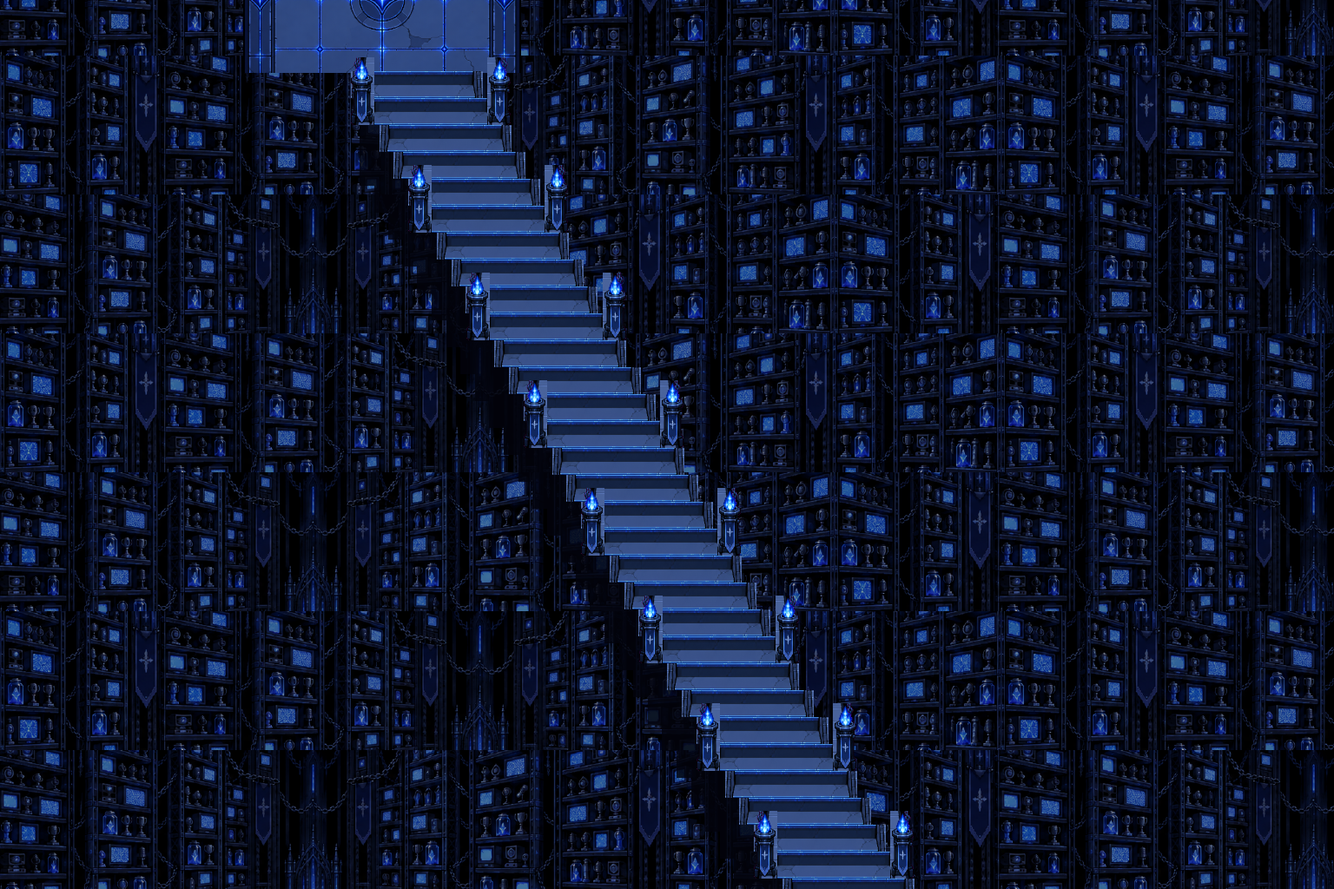
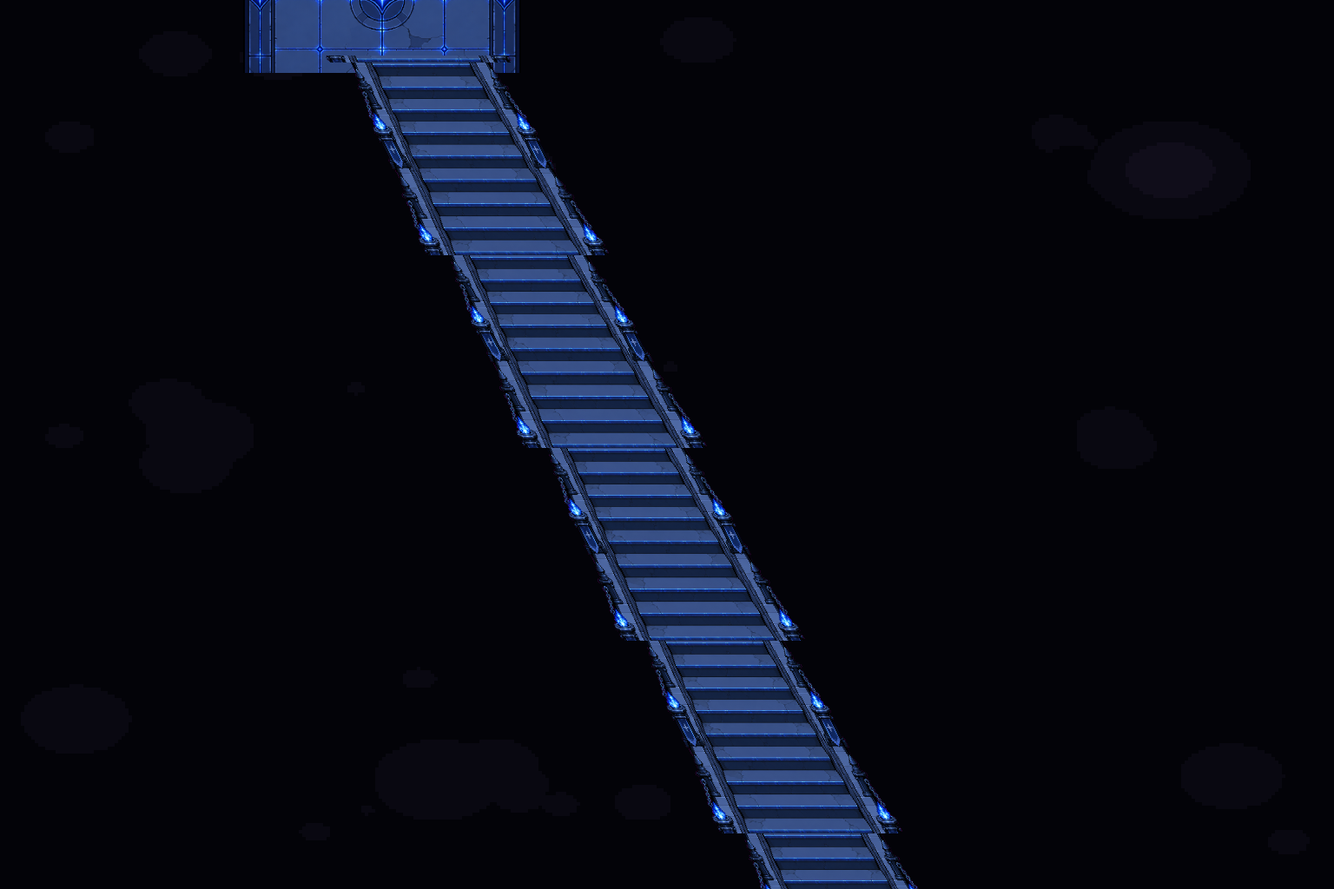
fix(castle): arena wave framing and longer rise, generated tower wall, allies pre-placed; stairs as continuous slanted flights on black smoke, more fist smashes
Design: docs/STATE.md BUILD336

diff --git a/src/scenes/castle-arena.js b/src/scenes/castle-arena.js
@@ -45,6 +45,7 @@ export class CastleArena {
     this.level = 0; this.time = 0; this.spawnAcc = 0;
     this.motes = []; this.puffs = []; this.eruption = null; this.chargeState = null;
     this.orb = null; this.rising = null; this.lasers = []; this.swords = []; this.fountain = null; this.dust = [];
+    this.sparks = [];
     this.fog = { level: 0, target: 0, speed: 1, clear: null }; this.tracking = null; this.giant = null; this.pacing = null; this.flying = null; this.arms = []; this.flung = [];
     void game.sound.loadSfxFiles?.(['captain_transform', 'captain_thunder', 'rumble', 'laser_charge', 'cannon_charge', 'laser_beam', 'laser_zap',
       'impact', 'hit', 'thud', 'power', 'wing', 'heavyswing', 'knight_cut', 'baron_slam', 'fountain_draw', 'fountain_erupt', 'spearappear', 'furnace_blast', 'explosion', 'punch', 'cathedral_gust']);
@@ -305,6 +306,14 @@ export class CastleArena {
       }
     }
     this.flung = this.flung.filter(f => !f.done);
+    if (this.fountain && this.surgeT() >= 0 && !this.fountain.fadeOut) {
+      for (let i = 0; i < 6; i++) {
+        const side = this.rnd() * 2 - 1, [px] = this.pit, w = ARENA.fountain.width;
+        this.sparks.push({ x: px + side * w * (0.55 + this.rnd() * 0.5), y: g.camera.y + SCREEN_H * (1.2 + this.rnd()), vy: -(700 + this.rnd() * 700), age: 0, len: 10 + this.rnd() * 30, big: this.rnd() < 0.2 });
+      }
+    }
+    for (const sp of this.sparks) { sp.age += s; sp.y += sp.vy * s; }
+    this.sparks = this.sparks.filter(sp => sp.age < 2.2);
     if (this.fountain?.fadeOut) { const fo = this.fountain.fadeOut; fo.t += s; if (fo.t >= fo.d) this.fountain = null; }
     if (this.fountain) {
       const before = this.surgeT();
@@ -437,7 +446,7 @@ export class CastleArena {
       g.addColorStop(0, `rgba(5,4,10,${0.3 * L})`); g.addColorStop(1, `rgba(5,4,10,${F.veil * L})`);
       ctx.fillStyle = g;
     } else ctx.fillStyle = `rgba(5,4,10,${F.veil * L})`;
-    ctx.fillRect(0, 0, SCREEN_W, SCREEN_H);
+    ctx.fillRect(-SCREEN_W, -SCREEN_H, SCREEN_W * 3, SCREEN_H * 3);
     for (let i = 0; i < F.blobs; i++) {
       const x = ((i * 97.3 + this.time * (8 + (i % 5) * 4)) % (SCREEN_W + 160)) - 80;
       const y = ((i * 53.7 + Math.sin(this.time * 0.4 + i) * 20) % (SCREEN_H + 80)) - 40;
@@ -455,7 +464,7 @@ export class CastleArena {
   drawEruption(ctx, cam, c) {
     const t = this.eruption.t / ARENA.erupt.duration, up = clamp01(t / 0.35), fade = t < 0.7 ? 1 : 1 - (t - 0.7) / 0.3;
     const base = c.y - cam.y, reach = (base + 420) * up, cx = c.x - cam.x;
-    ctx.fillStyle = `rgba(0,0,0,${0.3 * fade})`; ctx.fillRect(0, 0, SCREEN_W, SCREEN_H);
+    ctx.fillStyle = `rgba(0,0,0,${0.3 * fade})`; ctx.fillRect(-SCREEN_W, -SCREEN_H, SCREEN_W * 3, SCREEN_H * 3);
     for (let i = 0; i < 70; i++) {
       const f = ((i * 0.618034) % 1), y = base - f * reach - ((this.time * 260 + i * 37) % 60);
       const spread = ARENA.erupt.width * (0.25 + 0.75 * f) * 0.5, x = cx + Math.sin(i * 2.399 + this.time * 3) * spread;
@@ -562,21 +571,22 @@ export class CastleArena {
     const h = this.fountainHeight(), st = this.surgeT(), open = st < 0 ? 0 : easeOut(st / 0.7);
     if (st < 0) { this.drawTrickle(ctx, cam); return; }
     const width = 24 + (F.width - 24) * open;
-    const baseY = py - cam.y, topY = baseY - h, cx = px - cam.x, visTop = Math.max(topY, -40);
-    ctx.fillStyle = `rgba(2,10,34,${F.shadow * clamp01(f.t / 0.6)})`; ctx.fillRect(0, 0, SCREEN_W, SCREEN_H);
+    // 줌아웃 중에는 화면보다 넓게 보이므로 화면 밖으로 넉넉히 그린다(잘려 보이지 않게)
+    const baseY = py - cam.y, topY = baseY - h, cx = px - cam.x, visTop = Math.max(topY, -SCREEN_H * 1.5), visBot = SCREEN_H * 2.5;
+    ctx.fillStyle = `rgba(2,10,34,${F.shadow * clamp01(f.t / 0.6)})`; ctx.fillRect(-SCREEN_W, -SCREEN_H, SCREEN_W * 3, SCREEN_H * 3);
     for (let r = 0; r < 3; r++) {
       const ring = ((this.time * 0.8 + r / 3) % 1);
       ctx.strokeStyle = `rgba(110,220,255,${0.6 * (1 - ring)})`; ctx.lineWidth = 3;
       ctx.beginPath(); ctx.ellipse(cx, baseY, prx * (0.3 + 0.7 * ring), prx * 0.32 * (0.3 + 0.7 * ring), 0, 0, Math.PI * 2); ctx.stroke();
     }
-    if (visTop > SCREEN_H + 40 || baseY < -40 && topY > SCREEN_H) return;
+    if (visTop > visBot) return;
     const wob = y => Math.sin(this.time * 2.6 + y * 0.011) * 9 * open;
     const edge = (inset, side, y) => cx + side * (width / 2 - inset) + wob(y + (side > 0 ? 90 : 0)) * (0.6 + 0.4 * Math.sin(y * 0.004));
     const band = (inset, color) => {
       if (width / 2 - inset < 1) return;
       ctx.fillStyle = color; ctx.beginPath();
-      for (let y = Math.min(baseY, SCREEN_H + 40); y >= visTop; y -= 10) ctx.lineTo(edge(inset, -1, y), y);
-      for (let y = visTop; y <= Math.min(baseY, SCREEN_H + 40); y += 10) ctx.lineTo(edge(inset, 1, y), y);
+      for (let y = Math.min(baseY, visBot); y >= visTop; y -= 10) ctx.lineTo(edge(inset, -1, y), y);
+      for (let y = visTop; y <= Math.min(baseY, visBot); y += 10) ctx.lineTo(edge(inset, 1, y), y);
       ctx.closePath(); ctx.fill();
     };
     this.drawRibbons(ctx, cam, cx, width, baseY, visTop, open, false);
@@ -586,10 +596,10 @@ export class CastleArena {
     band(0, '#2fb6e0'); band(width * 0.05, '#5fe0f0'); band(width * 0.12, '#c8f4f2'); band(width * 0.24, '#e6fcf9');
     // 기둥 안을 비스듬히 훑고 올라가는 짙은 파랑 띠(참고 스크린샷의 큰 대각선 덩어리)
     ctx.save();
-    ctx.beginPath(); ctx.rect(cx - width / 2, visTop, width, Math.min(baseY, SCREEN_H + 40) - visTop); ctx.clip();
+    ctx.beginPath(); ctx.rect(cx - width / 2, visTop, width, Math.min(baseY, visBot) - visTop); ctx.clip();
     const period = 760, shift = ((this.time * 420 + cam.y) % period + period) % period;
     for (let i = 0; i < F.bands; i++) {
-      for (let rep = -1; rep <= 2; rep++) {
+      for (let rep = -2; rep <= 3; rep++) {
         const yy = i * period / F.bands + rep * period - shift, thick = i % 2 ? 110 : 70, drop = 260;
         ctx.fillStyle = i % 2 ? 'rgba(74,168,232,0.9)' : 'rgba(95,200,240,0.55)';
         ctx.beginPath();
@@ -612,15 +622,28 @@ export class CastleArena {
       }
     }
     ctx.restore();
-    ctx.fillStyle = `rgba(226,251,248,${0.45 * (1 - clamp01(st / 0.6))})`; ctx.fillRect(0, 0, SCREEN_W, SCREEN_H);
+    // 기둥 둘레로 솟구치는 빛 입자
+    for (const sp of this.sparks) {
+      ctx.globalAlpha = Math.max(0, 1 - sp.age / 2.2);
+      ctx.fillStyle = sp.big ? '#ffffff' : '#9fe6ff';
+      ctx.fillRect(Math.round(sp.x - cam.x), Math.round(sp.y - cam.y), sp.big ? 3 : 2, Math.round(sp.len));
+    }
+    ctx.globalAlpha = 1;
+    // 위로 퍼지는 충격 고리
+    for (let r = 0; r < 3; r++) {
+      const ring = ((this.time * 0.7 + r / 3) % 1), yy = baseY - ring * Math.min(h, SCREEN_H * 3);
+      ctx.strokeStyle = `rgba(200,245,255,${0.35 * (1 - ring) * open})`; ctx.lineWidth = 3;
+      ctx.beginPath(); ctx.ellipse(cx, yy, width * (0.7 + ring * 0.6), width * 0.14, 0, 0, Math.PI * 2); ctx.stroke();
+    }
+    ctx.fillStyle = `rgba(226,251,248,${0.45 * (1 - clamp01(st / 0.6))})`; ctx.fillRect(-SCREEN_W, -SCREEN_H, SCREEN_W * 3, SCREEN_H * 3);
   }
   /** Ribbons coil around the column: the back half before the column is drawn, short front arcs over its edges. */
   drawRibbons(ctx, cam, cx, width, baseY, visTop, open, front) {
     const f = this.fountain, period = 620;
     ctx.lineCap = 'round';
     for (const r of f.ribbons) {
-      const phase = (r.phase + this.time * r.speed) % 1, start = Math.floor((cam.y - 80) / period) * period;
-      for (let wy = start; wy < cam.y + SCREEN_H + period; wy += period) {
+      const phase = (r.phase + this.time * r.speed) % 1, start = Math.floor((cam.y - SCREEN_H * 1.5) / period) * period;
+      for (let wy = start; wy < cam.y + SCREEN_H * 2.5 + period; wy += period) {
         const y0 = wy - cam.y + (1 - phase) * period + r.phase * 180;
         if (y0 > baseY || y0 < visTop - 80) continue;
         ctx.strokeStyle = front ? (r.dir > 0 ? 'rgba(90,190,240,0.95)' : 'rgba(60,150,190,0.9)') : 'rgba(30,90,120,0.7)';
@@ -643,7 +666,7 @@ export class CastleArena {
   drawTrickle(ctx, cam) {
     const F = ARENA.fountain, f = this.fountain, [px, py, prx] = this.pit, k = clamp01(f.t / F.build);
     const baseY = py - cam.y, cx = px - cam.x, reach = clamp01(f.t / 1.2), top = baseY - (baseY + 60) * reach;
-    ctx.fillStyle = `rgba(2,10,34,${0.35 * k})`; ctx.fillRect(0, 0, SCREEN_W, SCREEN_H);
+    ctx.fillStyle = `rgba(2,10,34,${0.35 * k})`; ctx.fillRect(-SCREEN_W, -SCREEN_H, SCREEN_W * 3, SCREEN_H * 3);
     const glow = ctx.createRadialGradient(cx, baseY, 0, cx, baseY, prx * 0.45);
     glow.addColorStop(0, `rgba(160,235,255,${0.35 + 0.25 * k})`); glow.addColorStop(1, 'rgba(60,160,220,0)');
     ctx.fillStyle = glow; ctx.fillRect(cx - prx * 0.5, baseY - prx * 0.2, prx, prx * 0.4);

diff --git a/src/data/cutscenes/castle_arena.js b/src/data/cutscenes/castle_arena.js
@@ -18,7 +18,7 @@ export const ARENA_SCENE = Object.freeze({
   cam: { gajaeman: at(555, 215), party: at(555, 394), wide: at(555, 330), left: at(250, 318), right: at(902, 318),
     leftAlly: at(300, 330), rightAlly: at(852, 330), pit: at(555, 300), orbTop: at(555, -300), above: at(555, 250), giant: at(555, -560),
     rushLeft: at(300, 300) },
-  summonEvery: 0.45, approach: 1.3, rise: 3.2, pad: PAD,
+  summonEvery: 0.45, approach: 1.3, rise: 5.2, pad: PAD,
 });
 const C = ARENA_SCENE.cam;
 const close = { action: game => game.textbox.close() };
@@ -69,9 +69,8 @@ export const castle_arena_intro = Object.assign([
   { if: flags => !!flags[ARENA_SCENE.stage], goto: 'end' },
   close, { bgm: null, fadeOut: 0.6 },
   { show: ARENA_SCENE.gajaeman }, { camera: 'player' },
-  // 주인공들이 위로 올라감(영클·쥰희도 함께)
-  { parallel: [walkUp('player'), [{ wait: 0.2 }, ...walkUp('gyeongsub')], [{ wait: 0.35 }, ...walkUp('ppaman')],
-    [{ wait: 0.1 }, ...walkUp('youngcle')], [{ wait: 0.45 }, ...walkUp('junhee')]] },
+  // 주인공들이 위로 올라감 — 영클·쥰희는 먼저 도착해 테두리 양 끝에서 기다리고 있다
+  { parallel: [walkUp('player'), [{ wait: 0.2 }, ...walkUp('gyeongsub')], [{ wait: 0.35 }, ...walkUp('ppaman')]] },
   ...faceAll('up'), { wait: 0.4 },
   arena(s => s.setAura(1)),
   { camera: C.gajaeman, duration: 3.2 }, { wait: 0.8 },
@@ -111,7 +110,8 @@ export const castle_arena_intro = Object.assign([
   { motion: 'arena_park', name: 'bow' },
   PG('응 잘가세연'), close,
   { parallel: [{ zoom: 1, duration: 0.8 }, { camera: C.party, duration: 1.0 }] },
-  { face: 'player', dir: 'up' }, { face: ARENA_SCENE.youngcle, dir: 'up' },
+  // 지원군이 막아 준 뒤: 다섯 명 모두 다시 앞(가재맨)을 본다
+  ...faceAll('up'),
   Y('쟤들한테 맡기고 이제 니를 참교육 해주겠음.'),
   Y('엄청대박인배 슈퍼 웨폰마스터 시리즈중 하나인, 나의 초대형 레이저맛을 보샘'), close,
   { zoom: 1.35, at: ARENA_SCENE.youngcle, offset: [0, 20], duration: 0.6 },
@@ -151,7 +151,8 @@ export const castle_arena_intro = Object.assign([
   { parallel: [{ zoom: 0.7, duration: 0.8 }, { camera: at(555, -2150), duration: ARENA_SCENE.rise }] },
   { wait: 1.2 },
   // 파동이 사라지고 호러한 연기로 아무것도 안 보이는 채 카메라가 다시 주인공들 쪽으로
-  arena(s => { s.setAura(0); return s.fountainEnd(1.8); }), { hide: ARENA_SCENE.gajaeman },
+  // 위에서: 파동이 사라지며 검은 연기가 차오르는 것을 보여 준 뒤 → 아래로
+  arena(s => { s.setAura(0); return s.fountainEnd(2.2); }), { hide: ARENA_SCENE.gajaeman }, { wait: 1.2 },
   { action: game => { for (const e of game.entities) if (e.id?.startsWith('arena_mon_')) e.visible = false; } },
   { parallel: [{ zoom: 1, duration: 1.0 }, { camera: C.party, duration: 3.0 }] },
   arena(s => { s.setFogClear(555, 420 + PAD); s.setFog(0.9, 1.6); }), { wait: 1.4 },
@@ -194,8 +195,9 @@ export const castle_arena_intro = Object.assign([
   J('저..저게... 저게뭐야!!!!'), close,
   // 연기 속에서 천천히: 연기가 걷히며 형체가 점점 드러난다(상체만 가깝게)
   { fade: 'out', duration: 0.5 }, arena(s => { s.setFog(1, 0.05); s.setFogClear(null); s.showGiant(); }),
-  { camera: C.giant, duration: 0.01 }, { zoom: 0.85, duration: 0.01 }, { fade: 'in', duration: 0.8 },
-  arena(s => s.setFog(0.2, 3.2)), { wait: 3.2 }, { shake: 0.6, amp: 3 }, { wait: 0.4 },
+  // 가까이 몸통 → 연기가 걷히며 팔까지 보이게 뒤로 물러난다
+  { camera: C.giant, duration: 0.01 }, { zoom: 1.4, at: [555, 1860], duration: 0.01 }, { fade: 'in', duration: 0.8 },
+  { parallel: [arena(s => s.setFog(0.2, 3.2)), { zoom: 0.46, duration: 3.2 }] }, { shake: 0.6, amp: 3 }, { wait: 0.4 },
   J('괴물이잖아!!!!!!!!!!'), close,
   { fade: 'out', duration: 0.4 }, arena(s => { s.setFog(0.9, 0.05); s.setFogClear(555, 420 + PAD); }), { zoom: 1, duration: 0.01 }, { camera: C.party, duration: 0.01 }, { fade: 'in', duration: 0.5 },
   J('오 오른쪽으로 튀어!!!'), close,

diff --git a/src/data/cutscenes/castle_stairs.js b/src/data/cutscenes/castle_stairs.js
@@ -1,5 +1,6 @@
 // BUILD334 사용자 브리핑(2026-09-25): 무너지는 계단. 대사·표기 원문 그대로(“이얍!”은 브리핑의 기합).
 const P = text => ({ speaker: '억빠맨', portrait: 'ppaman', voice: 'ppaman', text: `* ${text}` });
+const K = text => ({ speaker: '경섭', portrait: 'gyeongsub', voice: 'gyeongsub', text: `* ${text}` });
 const J = text => ({ speaker: '쥰희', portrait: 'junhee', voice: 'junhee', text: `* ${text}` });
 const PG = text => ({ speaker: '파크가디언', portrait: 'park_guardian_costume', voice: 'park_guardian_costume', text: `* ${text}` });
 const T = text => ({ speaker: '뚜울라알라', portrait: 'ttuulla', voice: 'ttuulla', text: `* ${text}` });
@@ -48,12 +49,13 @@ export const castle_stairs_nunu = Object.assign([
   { parallel: [{ camera: C.talkNunu, duration: 1.0 }, { zoom: 0.55, duration: 1.0 }, stairs(s => s.arrangeAllies(s.enc.nunu + STAIRS_SCENE.allyRow.nunu))] },
   stairs(s => s.showNunu()), { wait: 0.4 },
   surprise([...PARTY, 'stairs_junhee']),
-  J('잘... 부탁한다 너네들 살아서보자.'), J('이얍!'), close,
+  J('...'), J('잘... 부탁한다 너네들 살아서보자.'), J('이얍!'), close,
   // 쥰희가 누누와 윌럼프를 박치기해 함께 계단 옆으로 떨어진다
   { parallel: [{ camera: C.fall, duration: 0.5 }, stairs(s => s.junheeHeadbutt('stairs_junhee', 1))] },
   { wait: 0.5 },
   surprise(PARTY),
   { zoom: 1, duration: 0.5 },
+  K('고맙다.. 쥰희야.'), close,
   { set: { castle_stairs_nunu_done: true } },
   stairs(s => s.pauseAllies(false)), { camera: 'player' },
   { label: 'end' }, { end: true },

diff --git a/src/data/build.js b/src/data/build.js
@@ -1,1 +1,1 @@
-export const BUILD = '2026-09-25.335';
+export const BUILD = '2026-09-25.336';

diff --git a/tools/art/castle334_stairs_set.py b/tools/art/castle334_stairs_set.py
@@ -39,27 +39,47 @@ def keyed(im: Image.Image) -> Image.Image:
     return Image.fromarray(a)
 
 
-def step_unit() -> Image.Image:
-    """One step (lip line to lip line) from the middle of the generated staircase, scaled to the band width."""
-    raw = Image.open(SRC / 'flight-raw.png').convert('RGB')
-    band = raw.crop((258, 508, 766, 612))
-    h = round(band.height * STEP_W / band.width)
-    return band.resize((STEP_W, h), Image.BOX)
+def flight_strip(length: int) -> Image.Image:
+    """The generated straight staircase (steps + railings + lamps, magenta keyed), tiled to `length` px tall."""
+    raw = Image.open(SRC / 'flight-raw.png').convert('RGB').crop((96, 404, 928, 404 + 104 * 8))
+    unit = keyed(raw)
+    w = STEP_W + 70
+    unit = unit.resize((w, round(unit.height * w / unit.width)), Image.BOX)
+    strip = Image.new('RGBA', (w, length), (0, 0, 0, 0))
+    for y in range(length - unit.height, -unit.height, -unit.height):
+        strip.alpha_composite(unit, (0, y))
+    return strip
 
 
-def lamp_post() -> Image.Image:
-    post = keyed(Image.open(SRC / 'flight-raw.png').crop((150, 610, 250, 870)))
-    return post.resize((round(post.width * 0.3), round(post.height * 0.3)), Image.BOX)
+def sheared(strip: Image.Image, dx: float) -> Image.Image:
+    """Slant the whole flight: row y shifts by dx*(1 - y/h) so the top is dx to the side (one continuous railing)."""
+    h = strip.height
+    out = Image.new('RGBA', (strip.width + int(abs(dx)) + 2, h), (0, 0, 0, 0))
+    src = np.array(strip); dst = np.array(out)
+    base = int(abs(dx)) if dx < 0 else 0
+    for y in range(h):
+        off = base + int(round(dx * (1 - y / h)))
+        dst[y, off:off + strip.width] = src[y]
+    return Image.fromarray(dst)
 
 
-def wall() -> Image.Image:
-    room = Image.open('assets/props/arena332_room.png').convert('RGB')
-    band = ImageEnhance.Brightness(room.crop((0, 0, room.width, 160))).enhance(0.62)
-    out = Image.new('RGB', (W, H))
-    for y in range(0, H, band.height):
-        for x in range(0, W, band.width):
-            out.paste(band, (x - (y // band.height % 2) * 192, y))
-    return out
+def background() -> Image.Image:
+    """Black void with drifting dark smoke baked in (사용자 “배경 그냥 검은색으로 해줘 연기있고”)."""
+    rng = np.random.default_rng(334)
+    out = Image.new('RGB', (W, H), (3, 3, 8))
+    layer = np.zeros((H, W), float)
+    yy, xx = np.mgrid[0:H:4, 0:W:4]
+    for _ in range(260):
+        cx, cy, r = rng.uniform(0, W), rng.uniform(0, H), rng.uniform(40, 140)
+        d = ((xx - cx) ** 2 + ((yy - cy) * 1.6) ** 2) / r ** 2
+        layer[::4, ::4] += np.clip(1 - d, 0, 1) * rng.uniform(0.15, 0.4)
+    small = Image.fromarray((np.clip(layer[::4, ::4], 0, 1) * 255).astype(np.uint8)).resize((W // 4, H // 4))
+    mask = np.asarray(small.resize((W, H), Image.NEAREST)).astype(float) / 255
+    mask = np.floor(mask * 4) / 4
+    col = np.array(out).astype(float)
+    tint = np.array([34, 26, 50])
+    col = col * (1 - mask[..., None] * 0.9) + tint * mask[..., None] * 0.9
+    return Image.fromarray(col.astype(np.uint8))
 
 
 def landing_art(w: int, h: int) -> Image.Image:
@@ -71,34 +91,19 @@ def landing_art(w: int, h: int) -> Image.Image:
 
 
 def main() -> None:
-    full = wall()
-    shade = Image.new('RGBA', (W, H), (0, 0, 0, 0))
-    step, post = step_unit(), lamp_post()
-    pitch = step.height
-    # 계단 아래 그림자(벽에 드리운)
-    sh = np.array(shade)
-    for (x0, y0), (x1, y1) in FLIGHTS:
-        n = int((y0 - y1) // pitch)
-        for i in range(n):
-            t = i / n; x = int(x0 + (x1 - x0) * t); y = int(y0 - i * pitch)
-            sh[max(0, y):min(H, y + 70), max(0, x - STEP_W // 2 - 6):min(W, x + STEP_W // 2 + 6)] = (2, 3, 12, 210)
-    full.paste(Image.fromarray(sh), (0, 0), Image.fromarray(sh))
+    full = background()
     for x, y, w, h in LANDINGS:
         full.paste(landing_art(w, h), (x, y))
     for (x0, y0), (x1, y1) in FLIGHTS:
-        n = int((y0 - y1) // pitch)
-        for i in range(n + 1):
-            t = i / n; x = x0 + (x1 - x0) * t; y = int(y0 - (i + 1) * pitch)
-            full.paste(step, (int(x - STEP_W / 2), y))
-        for i in range(0, n + 1, LAMP_EVERY):
-            t = i / n; x = x0 + (x1 - x0) * t; y = int(y0 - (i + 1) * pitch)
-            for side in (-1, 1):
-                p = post if side < 0 else post.transpose(Image.FLIP_LEFT_RIGHT)
-                full.paste(p, (int(x + side * (STEP_W / 2 + 4) - p.width / 2), y - p.height + pitch), p)
+        length = y0 - y1 + 40
+        strip = sheared(flight_strip(length), x1 - x0)
+        left = int(min(x0, x1) - strip.width // 2 + abs(x1 - x0) // 2 * 0) - (STEP_W + 70) // 2
+        left = int(min(x0, x1)) - (STEP_W + 70) // 2
+        full.paste(strip, (left, int(y1) - 20), strip)
     for i, top in enumerate(range(0, H, CHUNK)):
         full.crop((0, top, W, min(H, top + CHUNK))).save(f'assets/props/stairs334_chunk_{i}.png')
     full.resize((W // 8, H // 8), Image.BOX).save(SRC / 'overview.png')
-    print('chunks', math.ceil(H / CHUNK), 'step pitch', pitch)
+    print('chunks', math.ceil(H / CHUNK))
 
 
 if __name__ == '__main__':

diff --git a/tools/maps/gajaeman_arena.py b/tools/maps/gajaeman_arena.py
@@ -26,7 +26,7 @@ COLS, ROWS = W // 32, (H + TOP_PAD) // 32
 FLOOR: Final = '▓'
 # 걷는 곳(배경 그림 기준 px): 둑길, 구덩이 앞 테두리, 왼쪽·오른쪽 테라스, 테라스와 테두리 연결
 WALK: Final = [(480, 440, 142, 328), (320, 396, 480, 56), (8, 216, 322, 146), (822, 216, 322, 146),
-               (296, 352, 96, 60), (760, 352, 96, 60), (780, 352, W - 780, 100)]
+               (296, 352, 96, 60), (760, 352, 96, 60)]
 ROW_Y: Final = 420 + TOP_PAD
 PARTY_X: Final = {'youngcle': 371, 'gyeongsub': 457, 'player': 543, 'ppaman': 629, 'junhee': 715}
 PIT: Final = [555, 307 + TOP_PAD, 217, 90]
@@ -72,9 +72,10 @@ def main() -> None:
     entities.extend([
         {'type': 'npc', 'id': 'arena_gajaeman', 'sprite': 'gajaeman_shadow', 'x': 543, 'y': 240 + TOP_PAD,
          'facing': 'up', 'solid': False, 'wander': 0, 'hidden': True, 'visualScale': 1.89},
-        {'type': 'npc', 'id': 'arena_youngcle', 'sprite': 'youngcle_hover', 'x': 510, 'y': 730 + TOP_PAD,
+        # BUILD336: 영클·쥰희는 먼저 도착해 자기 자리에 서 있다(사용자 “먼저 도착해있는느낌”)
+        {'type': 'npc', 'id': 'arena_youngcle', 'sprite': 'youngcle_hover', 'x': PARTY_X['youngcle'], 'y': ROW_Y,
          'facing': 'up', 'solid': False, 'wander': 0},
-        {'type': 'npc', 'id': 'arena_junhee', 'sprite': 'junhee', 'x': 580, 'y': 730 + TOP_PAD,
+        {'type': 'npc', 'id': 'arena_junhee', 'sprite': 'junhee', 'x': PARTY_X['junhee'], 'y': ROW_Y,
          'facing': 'up', 'solid': False, 'wander': 0},
     ])
     for actor_id, sprite, x, y, facing, scale in ALLIES:
@@ -90,8 +91,8 @@ def main() -> None:
                              'x': start_x, 'y': feet - hh + TOP_PAD, 'solid': False, 'hidden': True})
             summons.append({'id': prop_id, 'side': side, 'x': final_x, 'y': feet - hh + TOP_PAD})
     # BUILD334: 오른쪽 테라스 끝으로 가면 무너지는 계단으로
-    # 화면 끝(맵 오른쪽 끝)에 닿으면 바로 넘어간다: 테두리에서 오른쪽으로 계속 걸어도 끝까지 이어지고, 문은 그 높이 전체(사용자 “화면 밖으로 가면 바로 이동”)
-    entities.append({'type': 'door', 'id': 'arena_to_stairs', 'x': W - 12, 'y': 216 + TOP_PAD, 'w': 12, 'h': 236,
+    # 오른쪽 테라스 끝(맵 끝)에 닿으면 바로 넘어간다. 테라스 아래 허공으로는 걷지 않는다(사용자 “화면 밖으로 가면 바로 이동”)
+    entities.append({'type': 'door', 'id': 'arena_to_stairs', 'x': W - 12, 'y': 216 + TOP_PAD, 'w': 12, 'h': 146,
                      'to': 'gajaeman_castle_stairs', 'spawn': 'start', 'interact': False, 'sfx': False})
     entities.append({'type': 'trigger', 'id': 'arena_back', 'x': 480, 'y': ROWS * 32 - 10, 'w': 142, 'h': 10,
                      'script': 'castle_spire_back'})

diff --git a/assets/source/arena332/process.py b/assets/source/arena332/process.py
@@ -74,11 +74,21 @@ def main() -> None:
     room = Image.open(HERE / 'arena-wide-raw.png').convert('RGB').resize((1152, 768), Image.BOX)
     room.save('assets/props/arena332_room.png')
     # 위쪽 확장(카메라 대상승용 2400px): 선반 윗띠(240px, 난간 제외)를 위로 이어 붙이고 올라갈수록 어둠으로 사라진다
-    band = np.asarray(room)[:200].astype(float)
+    # BUILD336: 생성한 탑 벽(upper-raw, 위아래 이어지게)을 반복하고, 방 그림 윗부분과는 80px 섞어 이음새 없이. 위로 갈수록 어두워진다
+    tower = np.asarray(Image.open(HERE / 'upper-raw.png').convert('RGB').resize((1152, 1728), Image.BOX)).astype(float)
+    th = tower.shape[0]; blend = 96
+    for i in range(blend):
+        w = 0.5 * (1 - i / blend)
+        a_, b_ = tower[i].copy(), tower[th - 1 - i].copy()
+        tower[i] = a_ * (1 - w) + b_ * w; tower[th - 1 - i] = b_ * (1 - w) + a_ * w
     upper = np.zeros((2400, 1152, 3))
     for y in range(2400):
-        k = (y / 2400) ** 1.6
-        upper[y] = band[(y - 2400) % 200] * (0.08 + 0.92 * k)
+        k = (y / 2400) ** 1.3
+        upper[y] = tower[(y - 2400) % th] * (0.1 + 0.9 * k) * 0.8
+    top = np.asarray(room)[:80].astype(float)
+    for i in range(80):
+        w = i / 80
+        upper[2400 - 80 + i] = upper[2400 - 80 + i] * (1 - w) + top[i] * w
     Image.fromarray(np.clip(upper, 0, 255).astype(np.uint8)).save('assets/props/arena332_upper.png')
     # 청소년(구슬 속): 키 56px
     # BUILD333 재생성(cheong-raw2): 입 없음, 앞머리 그림자가 눈을 가림. 구슬 안에서는 보랏빛으로 물든 버전을 쓴다

diff --git a/tools/maps/gajaeman_stairs.py b/tools/maps/gajaeman_stairs.py
@@ -28,7 +28,7 @@ LANDINGS: Final = [(0, 6940, 560, 160), (1000, 5480, 320, 160), (280, 4020, 320,
 PATH: Final = [(40, 7020), (420, 7020), (420, 6940), (1100, 5640), (1160, 5560), (1160, 5480), (480, 4180), (440, 4100),
                (420, 4020), (1100, 2720), (1160, 2640), (1160, 2560), (480, 1260), (480, 1090), (480, 20)]
 # 지나가면 바로 뒤 계단을 청소년 주먹이 부순다(타임어택 아님, 긴박감 연출)
-SMASH: Final = [(760, 6290), (1160, 5520), (820, 4830), (430, 4060), (1160, 2600), (820, 1910)]
+SMASH: Final = [(600, 6620), (900, 6050), (1160, 5520), (980, 5000), (700, 4600), (430, 4060), (760, 3380), (1160, 2600), (820, 1910), (560, 1440)]
 ENCOUNTER: Final = {'monsters': (1006, 2900), 'nunu': (532, 1360)}
 
 

diff --git a/docs/STATE.md b/docs/STATE.md
@@ -2,6 +2,8 @@
 
 마지막 갱신: 2026-09-24
 
+**BUILD336 — 결전지·계단 교정(사용자 2026-09-25)**: 결전지: 영클·쥰희는 먼저 도착해 테두리 양 끝에 서 있고 주인공 셋만 올라온다, 지원군 뒤 다섯 명 모두 앞을 본다, 파동은 줌아웃 화면 전체로 그려 위아래가 잘리지 않고 빛 입자·충격 고리 추가, 상승 5.2초, 위에서 파동이 사라지고 검은 연기가 차는 것을 보여 준 뒤 내려옴, 위쪽 탑 벽을 gpt로 생성해 이어 붙임(`arena332/upper-raw`), 오른쪽 출구는 테라스 끝(허공 아래 길 제거), 청소년거인은 몸통 가까이서 팔까지 줌아웃. 계단: 생성 계단을 통째로 비스듬히 기울여 난간까지 한 줄로, 배경은 검은색+연기, 주먹 10회, 쥰희 “...” 추가·희생 뒤 경섭 “고맙다.. 쥰희야.”.
+
 **BUILD335 — 결전지·계단 교정(사용자 2026-09-25)**: 결전지: 파동 직전 모두 앞(구덩이)을 봄, 작은 줄기를 구덩이에서 화면 위까지 이어진 한 줄기로(위로 갈수록 흐려짐)·큰 파동 밑동 빛, 청소년 구슬을 크게(반지름52) 유리구슬처럼(짙은 테·안개 소용돌이·창문 반사·테두리 빛), 구슬을 던진 뒤 1.3초 구덩이를 보여 주고 천천히 가재맨 쪽으로 올라가 검을 뽑음, 지원군 착지는 가까운 구도(1.3배)로 허공이 비치지 않게, 근육팔은 두 배 가까이 굵게(높이260) 화면 밖 어깨에서 주먹을 내지름, 청소년거인은 1100px로 더 크게 상체만 가깝게(0.85배) 짙은 연기가 3.2초에 걸쳐 걷히며 드러남, 오른쪽 출구는 테두리에서 오른쪽으로 계속 걸어도 맵 끝까지 이어지고 끝에 닿으면 바로 계단으로. 계단: 계단 그림을 gpt로 생성한 재질로 다시 조립(`assets/source/stairs334/flight-raw`·`landing-raw`, 벽은 결전지 선반), 동료 걷기 모션, 모두 한 칸(31px)마다 들썩이고 주인공 발소리, 몬스터는 층계참에 짙은 연기와 함께 하나씩 소환·동료는 바로 아래 계단에 나란히(겹치지 않게), 대사 구도는 셋이 함께 들어오게, 파크가디언·뚜울라 희생 뒤 억빠맨 “윽 이런.. 고 고맙다..”.
 
 **BUILD334 — 무너지는 계단(사용자 2026-09-25)**: 결전지 오른쪽 테라스 끝으로 가면 새 맵 `gajaeman_castle_stairs`. 오른쪽 위·왼쪽 위로 꺾는 경사 계단 4줄기(작은 16px 디딤판·난간·그림자)와 층계참, 배경은 닫힌 탑 벽(돌·기둥 푸른 빛줄·모니터 선반 실루엣)으로 채워 뻥 뚫린 느낌이 없다(`tools/art/castle334_stairs_set.py`, 7조각). 계단에서는 천천히 걷기 속도·뒤로 못 감, 꼭대기 층계참까지 실측 약60초(`src/scenes/castle-stairs.js`가 계단 띠 안으로 붙들어 대각선도 위 키로 오른다). 정해진 6곳을 지나면 청소년 선화 주먹이 바로 뒤 계단을 쾅 부순다(`furnace_blast`+`baron_slam`, 구멍·파편; 타임어택 아님). 파크가디언·뚜울라알라·쥰희가 앞에서 같은 속도로 오르고 대화 중엔 멈춘다. 셋째 줄기에서 위 층계참에 몬스터 셋(블리츠크랭크·다리우스·피들스틱) → 억빠맨 “으윽,,,몬스터네요 어떡하죠.” → 파크가디언·뚜울라 “...” → “이얍!” 몸을 던져 몬스터와 함께 계단 옆으로 떨어짐. 넷째 줄기에서 꼭대기 층계참에 누누와 윌럼프 낙하·포효(`baron_roar`) → 쥰희 “잘... 부탁한다 너네들 살아서보자.”·“이얍!” 박치기로 함께 떨어짐. 대사 구도는 위협과 일행이 대화창 위에 함께 들어오게 줌아웃. 꼭대기 위 통로는 다음 맵이 없어 열어만 뒀다. 브금 `castle_gajaeman` 계속. QA `castle_stairs`, `castle_stairs_top`, 시나리오 `castle-stairs`, 단위 `castle-stairs.test.mjs`.
